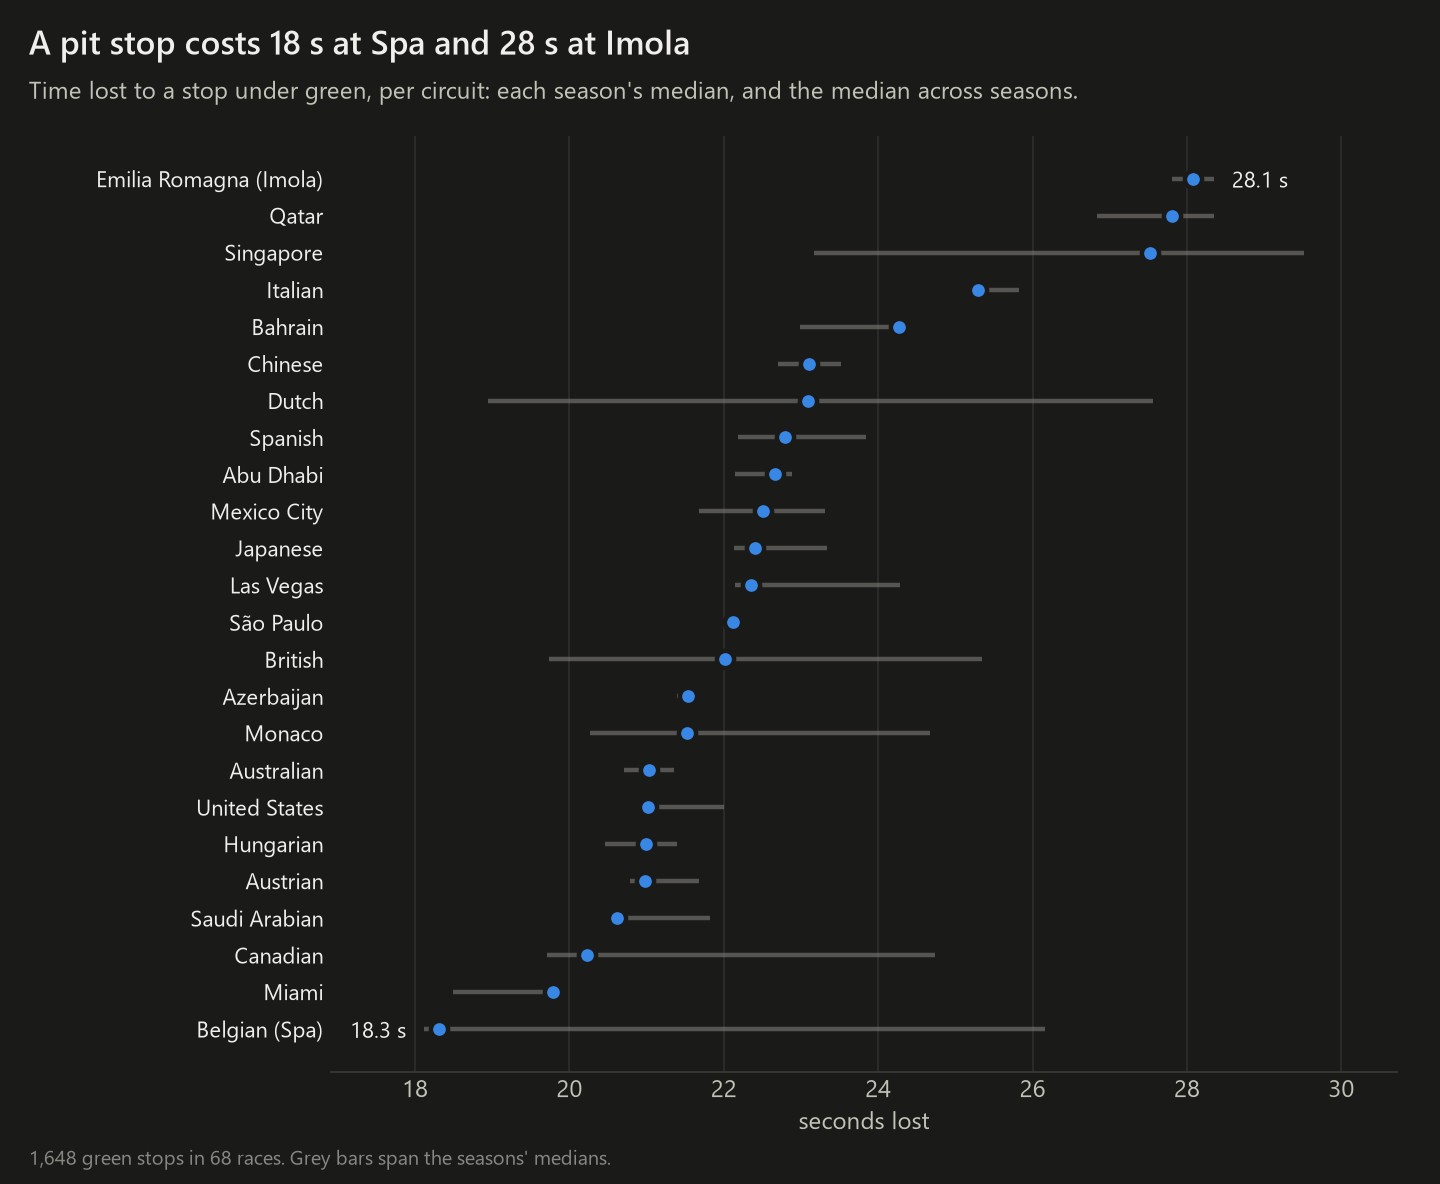
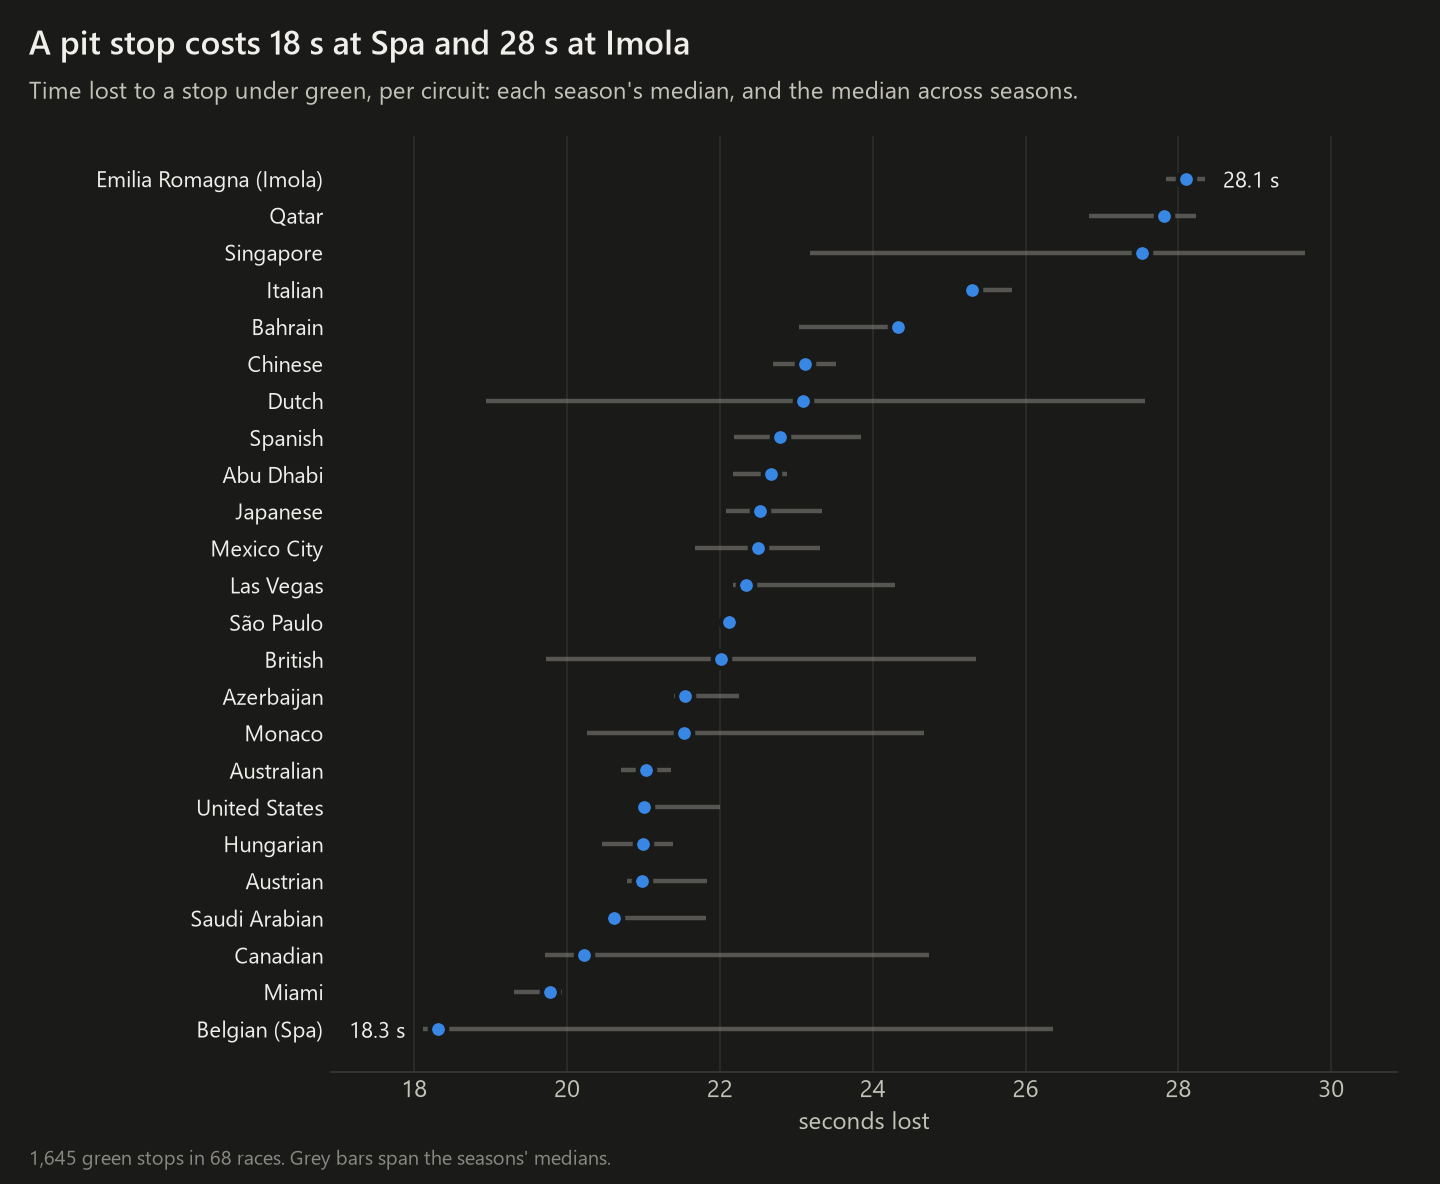
The lake is built from OpenF1: README, charts and guide updated
The lake now holds 90 races (2023-2026) built from OpenF1 alone; the FastF1
lake is kept locally as data_fastf1. Every Phase 2 headline and Phase 3 score
is reproduced on it (boosted model 0.355 s against 0.353 s). The README's
numbers and charts are redrawn from the new lake, and its green pit-stop
loss corrected to 22.2 s, which both lakes give. The Analyze window takes
the race distance from Silver when Bronze has none.

diff --git a/src/analytics/race_overview.py b/src/analytics/race_overview.py
@@ -85,6 +85,9 @@ def lake_status(year: int, round_number: int, session: str = "R",
         status.country = manifest.get("country")
         status.event_date = str(manifest.get("event_date", ""))[:10] or None
         status.total_laps = manifest.get("total_laps")
+    if status.total_laps is None and status.silver:      # a Bronze from OpenF1 has no race distance: Silver has it
+        written = lake.read_metadata(silver_laps).get("total_laps", "")
+        status.total_laps = int(written) if written.isdigit() else None
     status.sizes_mb = {layer: _folder_mb(lake.session_dir(layer, year, round_number, session, root))
                        for layer in lake.LAYERS}
     return status

diff --git a/tests/pipeline/test_openf1_translate.py b/tests/pipeline/test_openf1_translate.py
@@ -330,3 +330,4 @@ def test_qatar_builds_silver_and_gold_from_an_openf1_bronze(tmp_path):
     assert lake.results_path(*QATAR, "R", tmp_path).parts[-5] == lake.SILVER        # the classification is in Silver
     overview = race_overview.load_overview(*QATAR, root=str(tmp_path))
     assert overview.classification.iloc[0]["driver_code"] == "VER" and len(overview.stints) > 40
+    assert overview.status.total_laps == 57                                         # from Silver: the manifest has none

diff --git a/README.md b/README.md
@@ -1,6 +1,6 @@
 # PitwallOS 🏎
 
-An end-to-end Formula 1 data project: a data lake of 70 races with telemetry, an analytics engine that measures what
+An end-to-end Formula 1 data project: a data lake of 90 races (2023-2026) with telemetry, built from [OpenF1](https://openf1.org), an analytics engine that measures what
 actually decides a race, and a ladder of pace models. Every number comes with its sample size and uncertainty, and is tested
 against a known fact of a real race.
 
@@ -24,29 +24,29 @@ PitwallOS is built on top of **[F1 Race Replay](https://github.com/IAmTomShaw/f1
 Each phase works on these terms. The analytics measure them from real races, the models learn them, and telemetry explains
 them corner by corner. Every phase is checked by the one after it.
 
-## What 70 races say
+## What 70 races say (2023-2025)
 
-All from 2023-2025: 77,713 laps, 65,698 of them showing true pace. Each analysis started from a written design and a predicted
-number, and ended with tests on real races. The race report checks 686 numbers against ranges written down before measuring,
+All from 2023-2025: 77,373 laps, 65,121 of them showing true pace. Each analysis started from a written design and a predicted
+number, and ended with tests on real races. The race report checks 688 numbers against ranges written down before measuring,
 and none is left unexplained.
 
 **Tyres wear more than lap times show.** A car gets lighter as it burns fuel, which hides most of the wear. Corrected for fuel, a
-soft loses 0.064 s for every lap of tyre age, a medium 0.049 s and a hard 0.044 s.
+soft loses 0.063 s for every lap of tyre age, a medium 0.050 s and a hard 0.044 s.
 
 <picture>
   <source media="(prefers-color-scheme: dark)" srcset="docs/images/tyre_wear-dark.png">
-  <img alt="Tyre wear per race by compound. Median corrected wear: soft +0.064, medium +0.049, hard +0.044 seconds per lap of tyre age; raw medians +0.020, +0.002 and -0.013." src="docs/images/tyre_wear-light.png">
+  <img alt="Tyre wear per race by compound. Median corrected wear: soft +0.063, medium +0.050, hard +0.044 seconds per lap of tyre age; raw medians +0.019, +0.002 and -0.013." src="docs/images/tyre_wear-light.png">
 </picture>
 
-**Following a car is expensive, and it does not stop at the famous 1.5 s.** Within half a second it costs about 0.78 s a lap, and
-cars 2-3 s back still lose 0.09 s. The cost is net: lost downforce and being held up, minus what DRS gives back.
+**Following a car is expensive, and it does not stop at the famous 1.5 s.** Within half a second it costs about 0.77 s a lap, and
+cars 2-3 s back still lose 0.10 s. The cost is net: lost downforce and being held up, minus what DRS gives back.
 
 <picture>
   <source media="(prefers-color-scheme: dark)" srcset="docs/images/dirty_air-dark.png">
-  <img alt="Cost of following by gap to the car ahead: +0.775 seconds a lap at 0 to 0.5 s behind, falling steadily to +0.094 at 2 to 3 s behind." src="docs/images/dirty_air-light.png">
+  <img alt="Cost of following by gap to the car ahead: +0.773 seconds a lap at 0 to 0.5 s behind, falling steadily to +0.095 at 2 to 3 s behind." src="docs/images/dirty_air-light.png">
 </picture>
 
-**A pit stop's price depends on the circuit.** A stop under green costs a median of 22.5 s, from 18 s at Spa to 28 s at Imola. A
+**A pit stop's price depends on the circuit.** A stop under green costs a median of 22.2 s, from 18 s at Spa to 28 s at Imola. A
 typical car stands still for 2.7 s of that.
 
 <picture>
@@ -54,11 +54,11 @@ typical car stands still for 2.7 s of that.
   <img alt="Time lost to a green pit stop per circuit, ranked: Imola highest at 28.1 s, Spa lowest at 18.3 s." src="docs/images/pit_loss-light.png">
 </picture>
 
-**An undercut is about the gap, and about how fast the rival answers.** Of 148 real attempts, 45 % worked (95 % interval 37-53 %).
+**An undercut is about the gap, and about how fast the rival answers.** Of 146 real attempts, 45 % worked (95 % interval 37-53 %).
 
 <picture>
   <source media="(prefers-color-scheme: dark)" srcset="docs/images/undercuts-dark.png">
-  <img alt="Undercut success by gap: 76 % under 1 s, 45 % at 1 to 2 s, 23 % at 2 to 3 s. By response: 38 % if the car ahead stops next lap, 50 % two laps later, 70 % three laps later." src="docs/images/undercuts-light.png">
+  <img alt="Undercut success by gap: 76 % under 1 s, 45 % at 1 to 2 s, 25 % at 2 to 3 s. By response: 38 % if the car ahead stops next lap, 50 % two laps later, 68 % three laps later." src="docs/images/undercuts-light.png">
 </picture>
 
 ## Predicting the next lap, and the ten after it
@@ -69,18 +69,18 @@ four existed.
 
 <picture>
   <source media="(prefers-color-scheme: dark)" srcset="docs/images/pace_models-dark.png">
-  <img alt="Mean error by laps ahead on 2025. Next lap: last clean lap 0.42 s, linear terms 0.40, Kalman filter 0.39, LightGBM corrections 0.35. Ten laps: 0.70, 0.64, 0.63, 0.57." src="docs/images/pace_models-light.png">
+  <img alt="Mean error by laps ahead on 2025. Next lap: last clean lap 0.42 s, linear terms 0.40, Kalman filter 0.39, LightGBM corrections 0.36. Ten laps: 0.71, 0.65, 0.64, 0.58." src="docs/images/pace_models-light.png">
 </picture>
 
 | Model | What it predicts with | Next lap | 10 laps ahead |
 |---|---|---|---|
-| Persistence | the driver's last clean lap | 0.420 s | 0.700 s |
-| Linear decomposition | base pace + tyre, fuel and traffic terms fitted on other races | 0.398 s | 0.644 s |
-| State-space | the same, with the base pace followed by a Kalman filter | 0.386 s | 0.633 s |
-| LightGBM corrections | the state-space model + boosted trees that learn its errors | **0.353 s** | **0.569 s** |
+| Persistence | the driver's last clean lap | 0.421 s | 0.706 s |
+| Linear decomposition | base pace + tyre, fuel and traffic terms fitted on other races | 0.400 s | 0.652 s |
+| State-space | the same, with the base pace followed by a Kalman filter | 0.389 s | 0.643 s |
+| LightGBM corrections | the state-space model + boosted trees that learn its errors | **0.355 s** | **0.582 s** |
 
-For scale: two clean laps in a row differ by 0.365 s on average, and even a guess that sees the laps on both sides of a lap misses it
-by 0.26 s. What is left is mostly rare big misses (traffic, battles, restarts).
+For scale: two clean laps in a row by the same driver differ by about 0.38 s on average in 2025. What is left is mostly rare big
+misses (traffic, battles, restarts).
 
 ## How it is built
 
@@ -94,9 +94,15 @@ by 0.26 s. What is left is mostly rare big misses (traffic, battles, restarts).
 
 Every table is checked against a data contract before it is written, and every dropped row is counted.
 
-**Telemetry** covers all 70 races: 1,388 car-races and 74 million samples. Each race gets a quality report covering data holes, lap
-length, speed against position and the finish line's place on the map. 63 races pass every check, and the other 7 are source faults such
-as feed outages or one car's speed sensor ([guide](docs/phase5_step0_telemetry.md)).
+**Telemetry** covers all 90 races: 1,789 car-races and 97 million samples. Each race gets a quality report covering data holes, lap
+length, speed against position and the finish line's place on the map. 74 races pass every check. The others are source faults, such as
+feed outages or one car's speed sensor, and 2026 has more of them (Monaco 2026's car positions stop 45 minutes before the flag)
+([guide](docs/phase5_step0_telemetry.md)).
+
+**Where the data comes from.** Everything comes from [OpenF1](https://openf1.org), free from 2023, no login. Until October 2026 the lap
+data came from FastF1, which F1's archive now refuses without a paid login. The move is documented step by step in
+[docs/openf1_migration.md](docs/openf1_migration.md): the lake was rebuilt from OpenF1 beside the old one and compared race by race;
+every analytics headline and every model score above was reproduced on it.
 
 ### The Analyze window
 
@@ -132,12 +138,11 @@ python -m pytest            # run the test suite, needs no data
 python main.py              # pick a race, then Replay or Analyze
 ```
 
-The lake is not in the repository: you build it. **Since October 2026 F1's timing archive needs a login.** FastF1 3.9+ can use an F1 TV
-Access subscription (see [its documentation](https://docs.fastf1.dev)); without one, FastF1 still serves 2021-2022 from its mirror and anything already
-in your local cache. [OpenF1](https://openf1.org)'s telemetry is free from 2023 on.
+The lake is not in the repository: you build it from [OpenF1](https://openf1.org) (free, no login, races from 2023 on; about 3 minutes
+a race with telemetry at OpenF1's free request rate).
 
 ```bash
-python -m src.pipeline.runner --year 2024 --round 12                  # one race: laps, then OpenF1's telemetry
+python -m src.pipeline.runner --year 2024 --round 12                  # one race, from OpenF1
 python -m src.pipeline.runner --year 2024 --round 12 --no-telemetry   # laps only
 python -m src.pipeline.backfill --season 2024                         # a whole season; resumes where it stopped
 python -m src.analytics.report --season 2023 2024 2025                # every analytics number, checked
@@ -150,8 +155,9 @@ python -m docs.make_figures                                           # this pag
 The replay comes from F1 Race Replay (Tom Shaw and its contributors), with a few fixes (an accurate leaderboard at the end of a race,
 rewind-safe insight windows).
 
-**Current limit:** it reads FastF1 directly, so since October 2026 it opens only sessions already in your local FastF1 cache, or with an F1 TV
-login. For any other session it says so. Rebuilding it on the lake's own telemetry, which would bring back all 70 races, is planned.
+**Current limit:** the replay still reads FastF1 directly, so since October 2026 it opens only sessions already in your local FastF1
+cache, or with an F1 TV login. For any other session it says so. Moving it onto the lake, which holds telemetry for all 90 races, is the
+next step of the move to OpenF1.
 
 **Features**
 
@@ -209,8 +215,9 @@ docs/                    developer's guides, a catalogue of F1 strategies, this 
 - **[Tom Shaw](https://tomshaw.dev)** created [F1 Race Replay](https://github.com/IAmTomShaw/f1-race-replay), the replay, track map, insights menu and
   telemetry stream this project is built on. Its contributors are listed in [contributors.md](./contributors.md), and its roadmap is kept in
   [docs/upstream_roadmap.md](./docs/upstream_roadmap.md).
-- **[FastF1](https://github.com/theOehrly/Fast-F1)** makes F1's timing data accessible.
-- **[OpenF1](https://openf1.org)** provides the telemetry, under [CC BY-NC-SA 4.0](https://creativecommons.org/licenses/by-nc-sa/4.0/). The charts on this page and the
+- **[FastF1](https://github.com/theOehrly/Fast-F1)** made F1's timing data accessible, and supplied this project's lap data until October 2026;
+  the replay still uses it for sessions in its cache.
+- **[OpenF1](https://openf1.org)** provides all the data (laps, pit stops, Race Control, results, telemetry), under [CC BY-NC-SA 4.0](https://creativecommons.org/licenses/by-nc-sa/4.0/). The charts on this page and the
   test fixtures in `tests/fixtures/openf1/` are derived from it and shared under the same licence, for non-commercial use.
 
 ## License

diff --git a/docs/openf1_migration.md b/docs/openf1_migration.md
@@ -2,8 +2,8 @@
 
 A developer's guide to how PitwallOS changed its data source. It is written piece by piece as the work is done.
 
-**Status:** the new lake is built and compared (pieces 1 to 3 below). All 70 races of 2023-2025 exist in `data_openf1/` as
-Bronze, Silver and Gold, built from OpenF1 alone. The apps still read the FastF1 lake in `data/` until the swap.
+**Status:** done except the replay. The lake in `data/` is built from OpenF1 alone: 90 races, 2023 to 2026. The FastF1 lake
+it replaced is kept as `data_fastf1/`. New races are downloaded from OpenF1. The replay still reads FastF1 (next piece).
 
 ## Why
 
@@ -34,8 +34,8 @@ reads, so the cleaner, Gold, the analytics and the models keep their code and th
 | 1 | Bronze: OpenF1's tables for a race, as delivered | done |
 | 2 | Translation: OpenF1's tables into the lap table the cleaner reads, on one clock with zero at lights out | done |
 | 3 | Rebuild 70 races, compare with the old lake | done |
-| 4 | Pace models re-scored on the new lake; swap the lakes; test fixtures re-cut | next |
-| 5 | Replay and Analyze from the lake; the 2026 races | planned |
+| 4 | New races from OpenF1; pace models re-scored; the 2026 races; swap the lakes | done |
+| 5 | The replay from the lake | next |
 | 6 | FastF1 removed | planned |
 
 ## Decisions so far
@@ -313,4 +313,71 @@ Every headline of Phase 2 is reproduced to within a few hundredths.
 - Classified positions of retired cars are null (OpenF1 gives none).
 - The two constants (0.173 s, 0.27 s) are measured medians, not physical facts. If OpenF1 changes how it stamps laps they must be
   measured again; the golden test on the official race time would fail first.
-- The pace models (Phase 3) have not yet been re-scored on the new lake.
+- The pace models were re-scored in piece 4.
+
+
+## Piece 4: new races from OpenF1, the 2026 season, and the swap
+
+### New races come from OpenF1
+
+`runner.bronze_step` and `backfill.build_race` now ingest a race with no Bronze through `openf1_bronze.ingest_session`. The
+backfill takes a season's races, and which of them have been run, from OpenF1's calendar (`openf1_bronze.season_calendar`,
+`has_run`). The Analyze window builds a missing race the same way, in about half a minute. A race already in an old FastF1
+Bronze keeps it. Qualifying and sprints still go through FastF1 until they are moved.
+
+### Four more rules, found on races that broke
+
+| Race | What broke | Rule added |
+|---|---|---|
+| Belgium 2025 | The start was behind the safety car (rain); OpenF1 has every car on mediums from lap 2, though they pitted for them on lap 12. Pace-model error 2.16 s, the worst race of 2025 | A start announced "RACE WILL START BEHIND THE SAFETY CAR" runs under 4 until the rolling or standing start. A stint that starts where the car never left the pit lane carries the previous set on |
+| Italy 2026 | A 200.7 s lap after a red flag counted as a clean lap: it held an extra formation lap | After a red flag, if Race Control spoke of the safety car while the race was stopped, the restart runs under 4 until the start message (F1's own feed does the same: Monaco 2024, Mexico 2023, Zandvoort 2023); "EXTRA FORMATION LAP" puts it back. Without any start message (Sao Paulo 2023) it ends after 180 s |
+| Netherlands 2026 | A lap ended 10 ms before it started (OpenF1's laps contradict each other after a 32-minute lap) | A lap whose end would come before its start has no end |
+| Mexico 2026 | The clock was a day off: the race's messages carry a "SESSION STARTED" from the day before | Lights out is looked for no earlier than an hour before the scheduled start |
+
+The tyre rule is limited twice: it is not applied where the lap table has holes (Miami 2025 holds 56 % of the laps), nor where
+the car did leave the pit lane since the previous set was fitted, on another lap than the stint says (Miami 2025: out on lap
+27, the stint from lap 33). There OpenF1 contradicts itself and the stint is kept as given.
+
+After these rules, 48 of 70 races match the FastF1 lake at 99 % or better on every key column (46 before), 53 at 98 %, 61 at
+95 %, and no race is worse on any column except Sao Paulo 2023 and Japan 2024, by about one lap per car: their formation lap
+after the red flag is now marked as safety car, where F1's feed showed green.
+
+### The pace models on the new lake
+
+Fitted on 2023-2024, scored once on 2025, as in Phase 3. Mean error on dry laps, in seconds:
+
+| Model | Next lap, FastF1 lake | Next lap, OpenF1 lake | 10 laps, FastF1 lake | 10 laps, OpenF1 lake |
+|---|---|---|---|---|
+| Persistence | 0.420 | 0.421 | 0.700 | 0.706 |
+| Linear decomposition | 0.398 | 0.400 | 0.644 | 0.652 |
+| State-space | 0.386 | 0.389 | 0.633 | 0.643 |
+| LightGBM corrections | 0.353 | 0.355 | 0.569 | 0.582 |
+
+Each rung still beats the one before it at every horizon (paired bootstrap over races). Before the Belgium fix the boosted
+model scored 0.413: one race with wrong tyres and a wrong start was enough to move a season's headline by 0.06 s.
+
+### 2026
+
+All 20 races run so far were downloaded (about 2.3 minutes each, telemetry included) and built: 20 of 20. The winner's
+rebuilt finish matches the official race time within 0.06 s in 18 of the 19 races where his laps are complete; Austria 2026 is
+0.32 s off, for a reason not found. 2026's telemetry has more source faults than 2023-2025: 11 of 20 races pass every
+quality check. Monaco 2026's car positions stop 45 minutes before the flag. Hungary and China 2026 carry samples from the day
+before; Silver keeps only the samples inside the race's laps, so these do no harm.
+
+The Analyze window opens every 2026 race, including the Italian Grand Prix of the screenshot that started this work.
+
+### The swap
+
+Two folder renames on the same disk, nothing copied or deleted:
+
+    data/          the FastF1 lake  ->  data_fastf1/   (kept, read-only from now on)
+    data_openf1/   the OpenF1 lake  ->  data/          (90 races: 2023-2026)
+
+Both names are ignored by git and refused by the local push guard. The reports in `data/reports/` were all rebuilt on the
+new lake (backfill, the six analytics steps, the 2025 model test, the telemetry quality report), and the README's charts and
+numbers were redrawn from it.
+
+What the swap did NOT change: the test fixtures. `tests/fixtures/lake/` and `lake_hungary/` are FastF1-shaped Bronze. That
+shape is now the cleaner's input contract (the translation produces it), so they still test the cleaner exactly; the
+translation has its own golden race (`tests/fixtures/openf1/qatar_2024/`). Golden numbers measured on FastF1's clock in those
+tests stay as they are.
